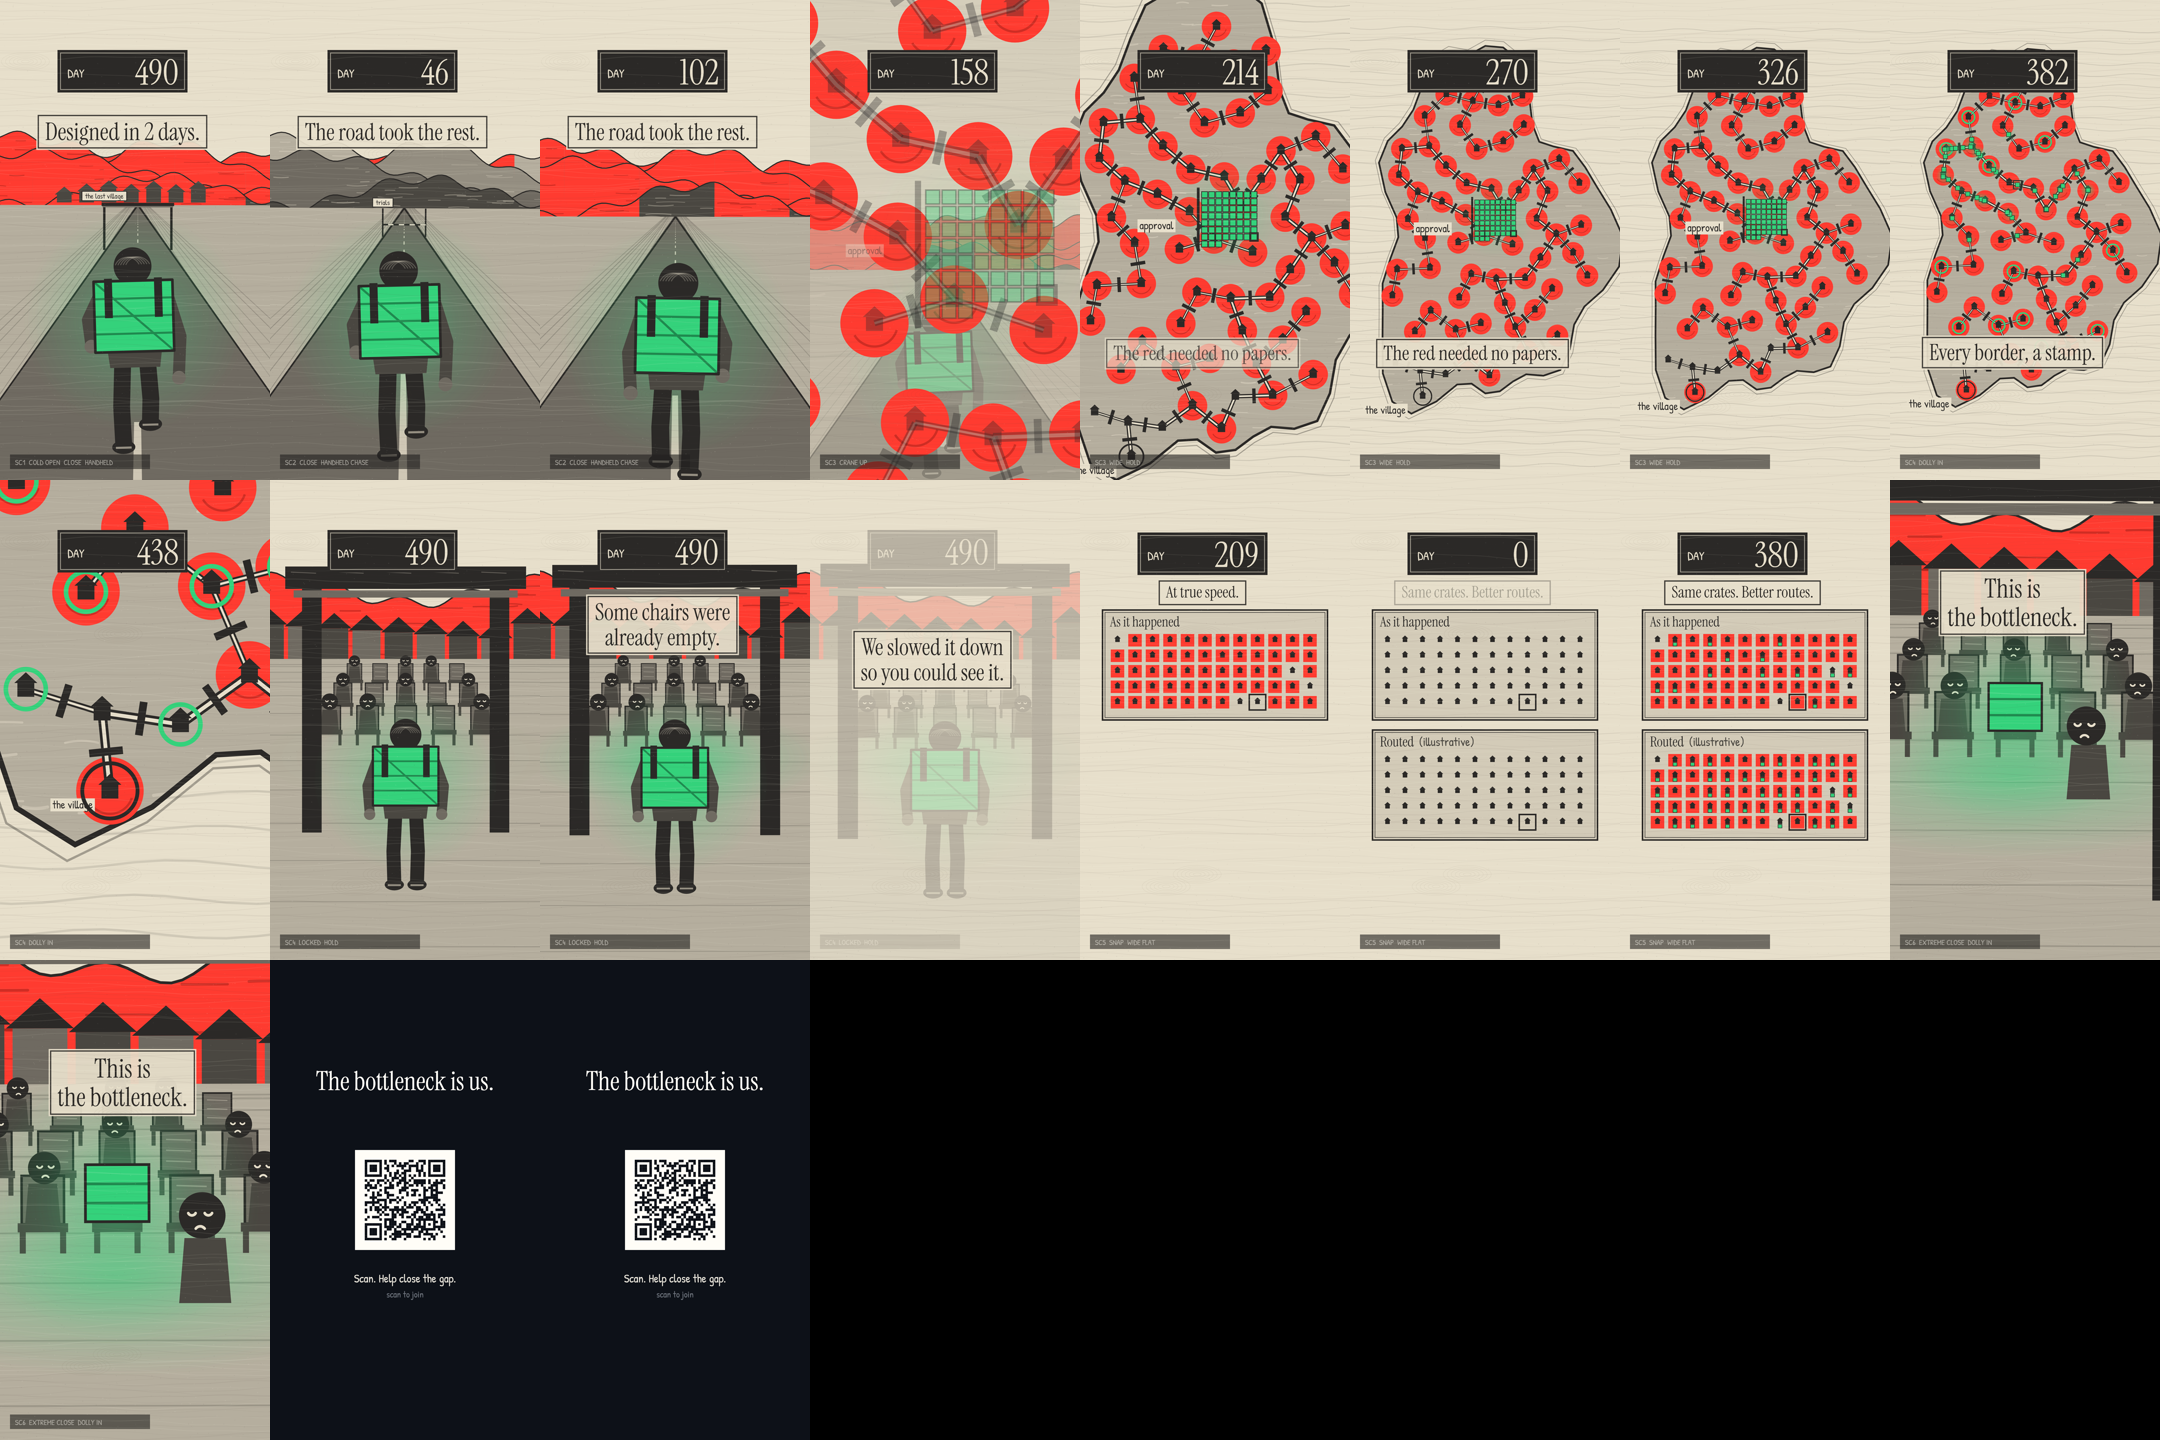
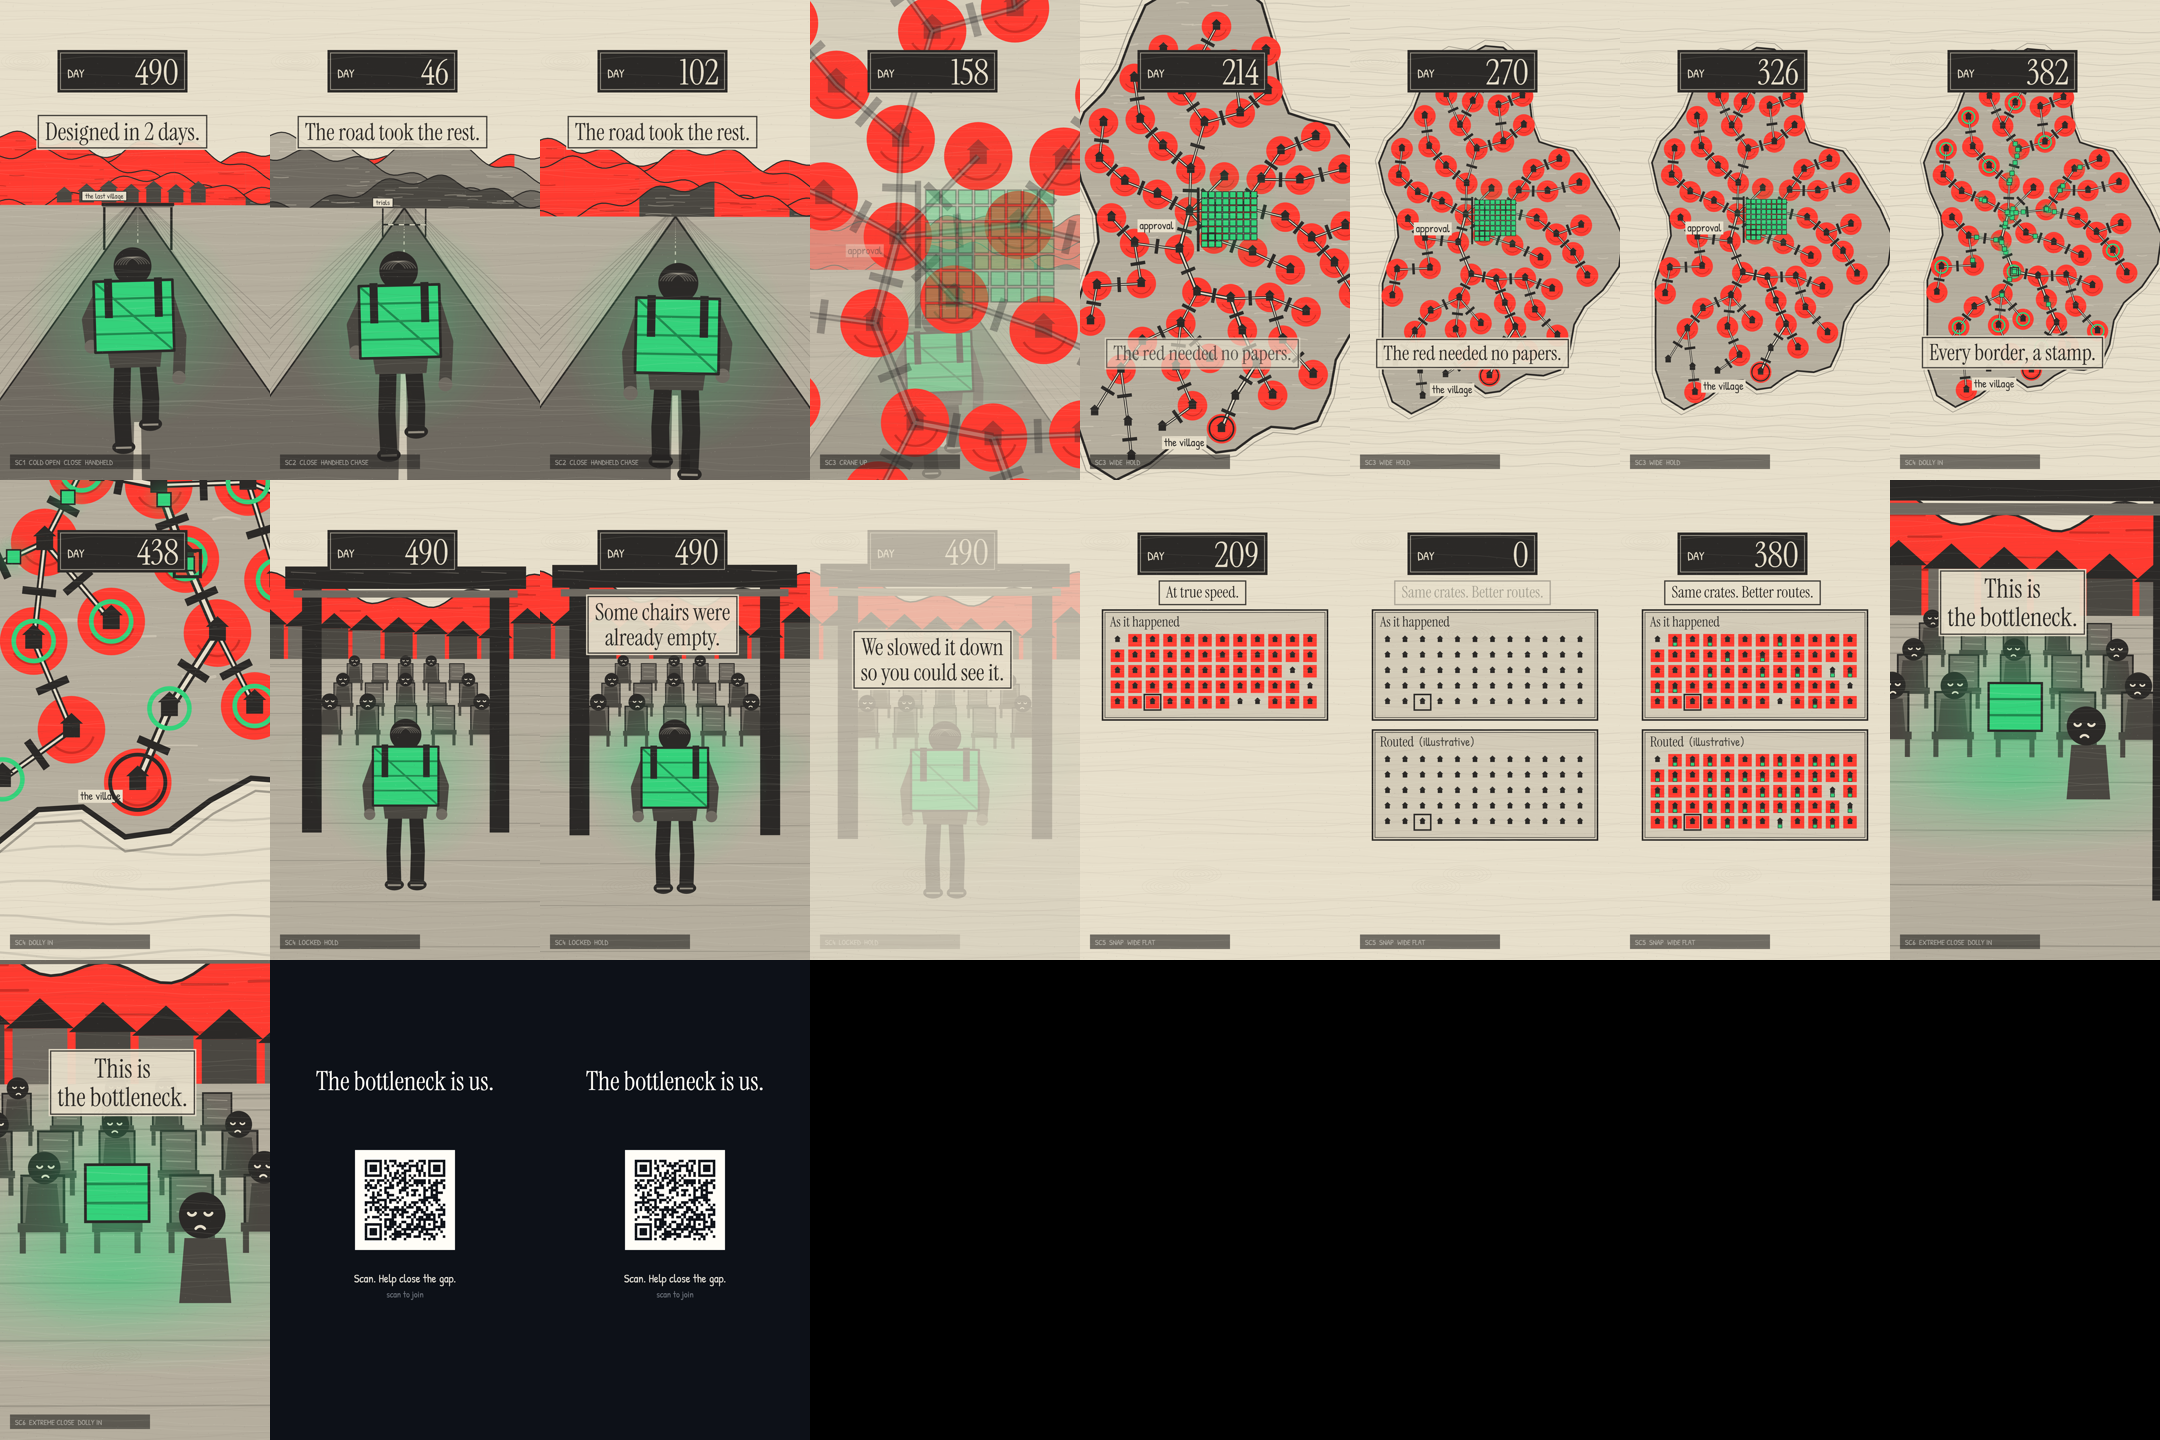
WIP: in-progress animatics
Claude-Session: https://claude.ai/code/session_01X5KAVDy6XpN4shueAifJh7

diff --git a/orchestration-videos/scenes/the-last-crate.js b/orchestration-videos/scenes/the-last-crate.js
@@ -157,12 +157,14 @@ function makeScene(SERIF, HAND) {
   const origin = nearest(320, 470), hub = nearest(520, 900, [origin]);
   nodes.map(n => ({ n, k: Math.hypot(n.x - origin.x, n.y - origin.y) + mr() * 280 })).sort((a, b) => a.k - b.k).forEach((o, r) => { o.n.redDay = dayForShare((r + 0.5) / N); });
   // road tree (Prim from the approval hub)
-  { const inT = new Set([hub]); hub.parent = null; while (inT.size < N) { let best = null, bd = 1e9, bp = null; nodes.forEach(n => { if (inT.has(n)) return; inT.forEach(m => { const d = Math.hypot(n.x - m.x, n.y - m.y); if (d < bd) { bd = d; best = n; bp = m; } }); }); best.parent = bp; inT.add(best); } }
+  // each country routes toward the hub through a nearer neighbour (short hops, every hop crosses a border)
+  const dh = n => Math.hypot(n.x - hub.x, n.y - hub.y); hub.parent = null;
+  nodes.forEach(n => { if (n === hub) return; let best = hub, bc = 1e9; nodes.forEach(m => { if (m === n || dh(m) > dh(n) - 40) return; const c = Math.hypot(n.x - m.x, n.y - m.y) + 0.3 * dh(m); if (c < bc) { bc = c; best = m; } }); n.parent = best; });
   nodes.forEach(n => { const p = []; let c = n; while (c) { p.unshift(c); c = c.parent; } n.path = p; });
   const edges = nodes.filter(n => n.parent).map(n => ({ a: n.parent, b: n, mx: (n.x + n.parent.x) / 2, my: (n.y + n.parent.y) / 2, ang: Math.atan2(n.y - n.parent.y, n.x - n.parent.x) }));
   // arrival quantiles (shuffled); the village is the far node forced to q = 0.90
   const qs = nodes.map((_, i) => (i + 0.5) / N); for (let i = qs.length - 1; i > 0; i--) { const j = Math.floor(mr() * (i + 1)); [qs[i], qs[j]] = [qs[j], qs[i]]; }
-  const vil = nodes.filter(n => n !== hub && n !== origin).reduce((b, n) => (n.path.length * 1000 + n.y) > (b.path.length * 1000 + b.y) ? n : b);
+  const vil = nodes.filter(n => n !== hub && n !== origin && n.x > 300 && n.x < 760).reduce((b, n) => n.y > b.y ? n : b);
   nodes.forEach((n, i) => { n.q = n === vil ? VQ : qs[i]; n.gDay = Math.max(FIRST, L.lognormalQuantile(n.q, MED, P90)); n.aiDay = Math.max(FIRST, L.lognormalQuantile(n.q, AIMED, AIP90)); });
   hub.gDay = FIRST; hub.aiDay = FIRST;
   const vilPathSet = new Set(vil.path);
